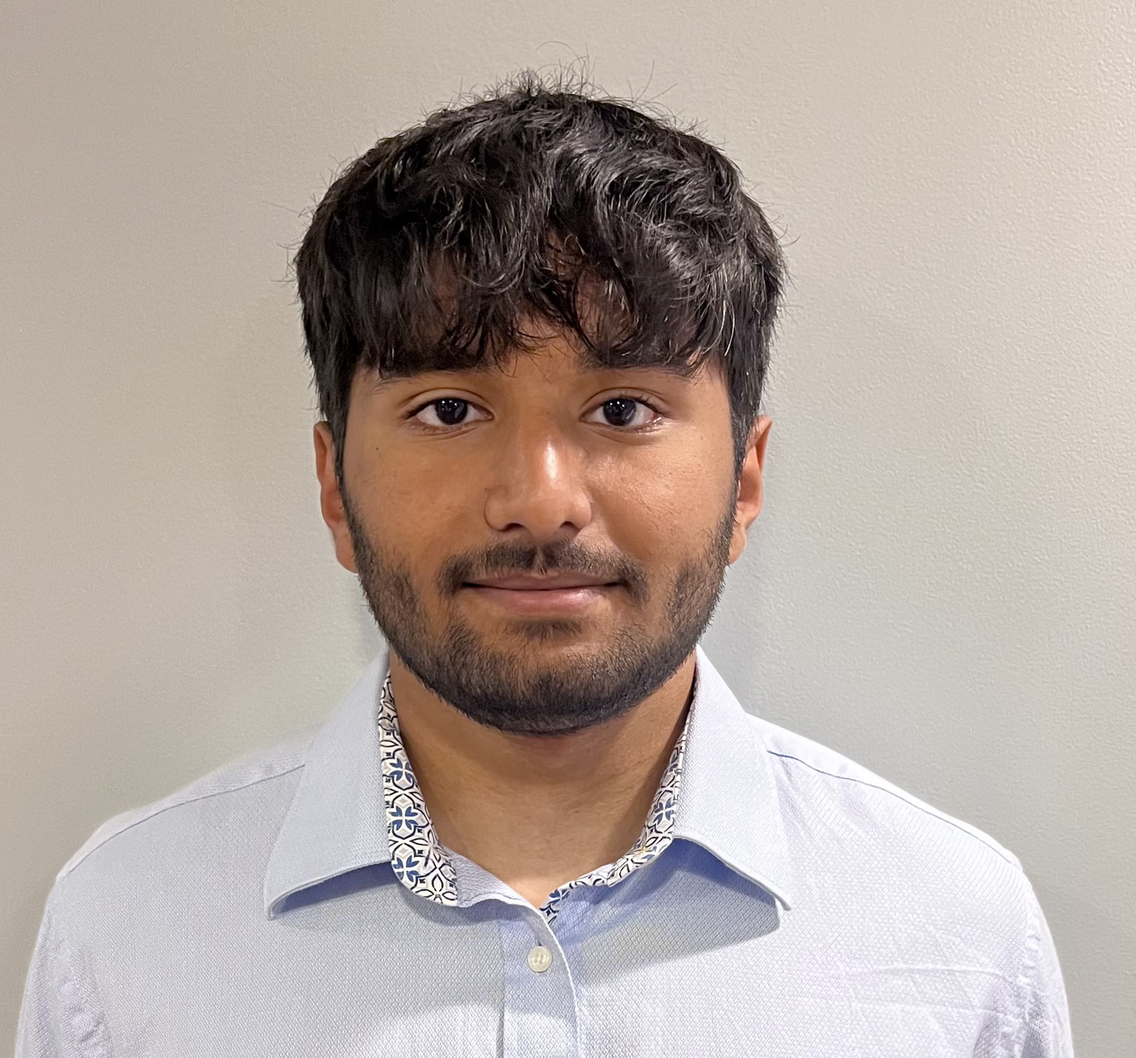
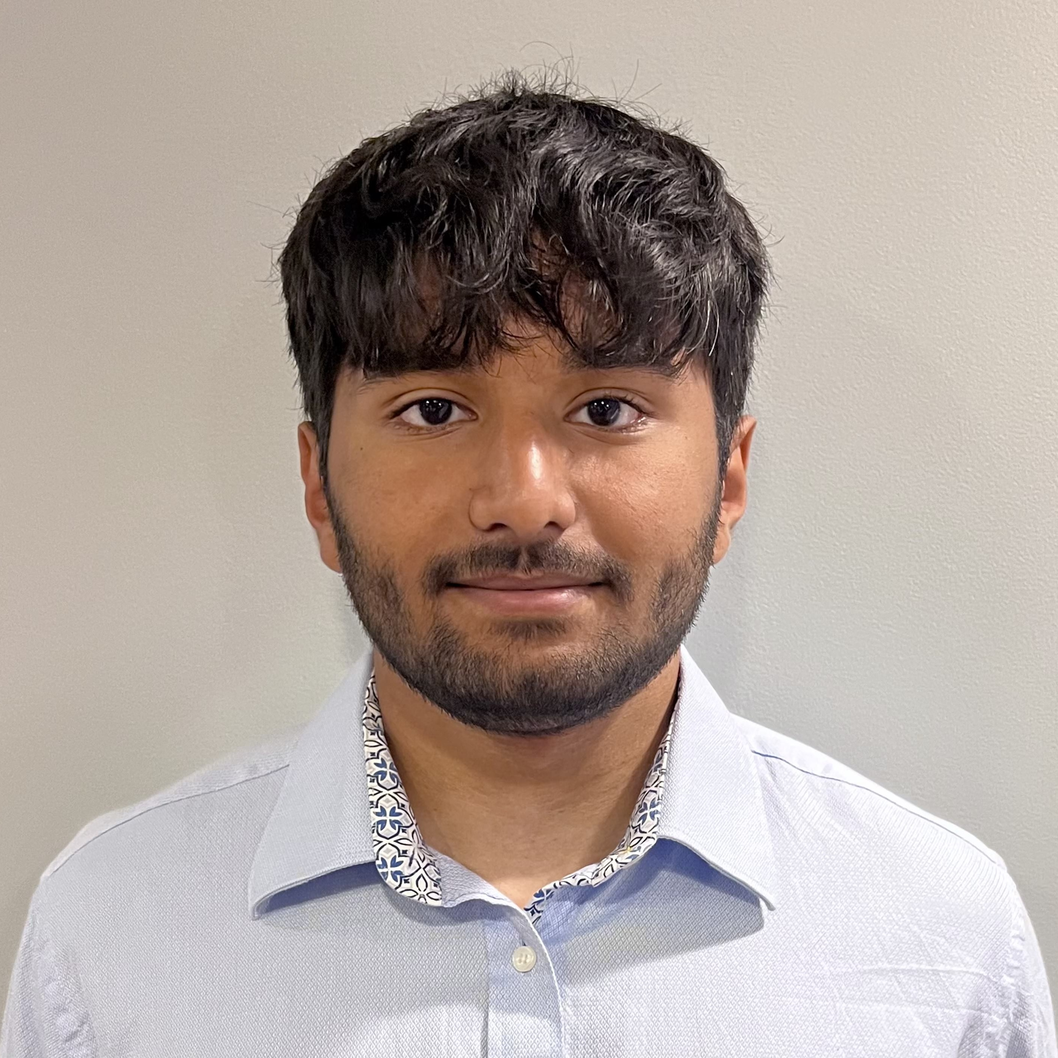
filling in panelist information and pictures

Changed region(s): [[0.0, 0.0619, 1.0, 1.0], [0.1237, 0.7423, 0.1546, 0.7732]]

diff --git a/events.html b/events.html
@@ -45,6 +45,14 @@
                     <a href="abouthackktp.html">HackKTP</a>
                 </div>
             </div> 
+            <div class="dropdown">
+              <button class="dropbtn">Events 
+                <i class="fa fa-caret-down"></i>
+                <div class="dropdown-content">
+                  <a href="events.html">KTPxPCT Panel</a>
+              </div>
+            </button>
+            </div>
             <a href="rush.html">Rush</a>
             <a href="members.html">Members</a>
             <a href="contactus.html">Contact</a>
@@ -61,14 +69,13 @@
 
     <div class="events_section">
         <h1><span style="color: #a3e4a3;">"</span> Events</h1>
-        <div class="events_catalog">
-          <a href="#KTPxPCTProfPanel"><h2>KTP x PCT Professional Panel</h2></a> <!--jump works!-->
-          <!--  <a href="#PastEvents"><h2>Past Events</h2></a> --> <!--This will be implemented once we have past events to flex-->
+        <!-- <div class="events_catalog">
+          <a href="#KTPxPCTProfPanel"><h2>KTP x PCT Professional Panel</h2></a>
         </div>
-        <img src="./images/Workshop 1.jpg" style="width: 80%; margin: 0 10%; border-radius: 10px;"> <!-- replace these with some image at the end that will be a visual page break -->
+        <img src="./images/Workshop 1.jpg" style="width: 80%; margin: 0 10%; border-radius: 10px;">  -->
         <div class="KTPxPCTProfPanel">
           <a id="KTPxPCTProfPanel">
-            <h2>KTP x PCT Professional Panel</h2>
+          <h2>KTP x PCT Professional Panel</h2>
           </a>
           <h3>Apr 14th, 2024, CCDS 5th Floor, 7-8PM</h3>
           <h4>Undergraduate Research and Industry Internships: A Presentation and Panel Discussion Featuring 3 Kappa Theta Pi and 3 Phi Chi Theta Members.</h4>
@@ -78,6 +85,7 @@
             Our panel of KTP and PCT members will provide valuable insights, addressing audience questions on effective application 
             strategies and successful participation in these invaluable experiences.
           </p>
+          <!-- <img src="./images/Workshop 1.jpg" style="width: 80%; margin: 0 10%; border-radius: 10px;"> -->
           <div class="KTPxPCTProfPanel_about">
             <div class="KTPxPCTProfPanel_about_ktp">
               <h4>About Kappa Theta Pi (KTP)</h4>
@@ -112,9 +120,9 @@
 
               <!--Victor Verma (KTP)-->
               <div class="KTPxPCTProfPanel_panelist_card_KTP">
-                <img src="./images/KTPxPCTPanelistHeadshots/VictorVerma.jpg"/>
+                <img src="./images/KTPxPCTPanelistHeadshots/victor.jpg"/>
                 <b><span style="color: whitesmoke; margin-left: 5%;">Victor Verma</span></b>
-                <p><b>Year: </b>Class of 2024</p>
+                <p><b>Year: </b>Class of 2025</p>
                 <p><b>Major and Minor: </b>Mathematics and Computer Science Major, Data Science Minor</p>
                 <p><b>Fraternity Role: </b>KTP Brother</p>
                 <p><b>Position: </b>Undergraduate Research Assistant, BU Questrom School of Business</p>
@@ -146,62 +154,57 @@
                 <img src="./compressed-imgs/Alpha Headshots/Rohan1-min.webp"/>
                 <b><span style="color: whitesmoke; margin-left: 5%;">Rohan Kumar</span></b>
                 <p><b>Year: </b>Class of 2025</p>
-                <p><b>Major and Concentration: </b>Computer Engineering, Technology Innovation</p>
+                <p><b>Major: </b>Computer Engineering, Technology Innovation</p>
                 <p><b>Fraternity Role: </b>KTP Brother</p>
-                <p><b>Position: </b>Undergraduate Research Assistant, BU College of Engineering</p>
-                <p><b>Description: </b>My coding roots trace back to around fifth grade when I started messing around with Scratch, 
-                  and I'm now proficient in many popular languages such as Java, C/C++ and Python. Since May 2023, I've researched memory hardware protocols with a 
-                  Boston University/Brown University team, where I found a special interest in operating systems and microcontrollers. 
-                  For the upcoming summer I'm interning with General Dynamics Mission Systems. 
-                  In my free time I enjoy playing video games, exploring outdoors, and cooking.
+                <p><b>Position: </b>Machine Learning Research Assistant, MIT Sloan and BU ECE PeacLab</p>
+                <p><b>Description: </b>At Sloan I work on optimization problems in healthcare, 
+                  and at PeacLab I work on creating ML-based cloud tools for cloud computing platforms.
                 </p>
               </div>
 
-              <!--Hailey Moon (PCT)--> <!-- Again just for reference-->
+              <!--Sharon Zou (PCT)--> <!-- Again just for reference-->
               <div class="KTPxPCTProfPanel_panelist_card_PCT">
-                <img src="./compressed-imgs/Alpha Headshots/Rohan1-min.webp"/>
-                <b><span style="color: #234c8a; margin-left: 5%;">Rohan Kumar</span></b>
-                <p><b>Year: </b>Class of 2025</p>
-                <p><b>Major and Concentration: </b>Computer Engineering, Technology Innovation</p>
-                <p><b>Fraternity Role: </b>KTP Brother</p>
-                <p><b>Position: </b>Undergraduate Research Assistant, BU College of Engineering</p>
-                <p><b>Description: </b>My coding roots trace back to around fifth grade when I started messing around with Scratch, 
-                  and I'm now proficient in many popular languages such as Java, C/C++ and Python. Since May 2023, I've researched memory hardware protocols with a 
-                  Boston University/Brown University team, where I found a special interest in operating systems and microcontrollers. 
-                  For the upcoming summer I'm interning with General Dynamics Mission Systems. 
-                  In my free time I enjoy playing video games, exploring outdoors, and cooking.
+                <img src="./images/KTPxPCTPanelistHeadshots/sharonzou.jpeg"/>
+                <b><span style="color: #234c8a; margin-left: 5%;">Sharon Zou</span></b>
+                <p><b>Year: </b>Class of 2024</p>
+                <p><b>Major: </b>Computer Science</p>
+                <p><b>Fraternity Role: </b>PCT Brother</p>
+                <p><b>Position: </b>Software Engineering Intern at Microsoft</p>
+                <p><b>Description: </b>
+                  I'm a two-time SWE intern at Microsoft. 
+                  I validated ML models on the Viva Glint Data Analytics & Insights Team during my first summer 
+                  and then implemented post-meeting highlight emails on the Viva Engage Teams Q&A Team the following summer.
                 </p>
               </div>
 
               <!--Elaine Leiyoung (PCT)--> <!-- Again just for reference-->
               <div class="KTPxPCTProfPanel_panelist_card_PCT">
-                <img src="./compressed-imgs/Alpha Headshots/Rohan1-min.webp"/>
-                <b><span style="color: #234c8a; margin-left: 5%;">Rohan Kumar</span></b>
-                <p><b>Year: </b>Class of 2025</p>
-                <p><b>Major and Concentration: </b>Computer Engineering, Technology Innovation</p>
-                <p><b>Fraternity Role: </b>KTP Brother</p>
-                <p><b>Position: </b>Undergraduate Research Assistant, BU College of Engineering</p>
-                <p><b>Description: </b>My coding roots trace back to around fifth grade when I started messing around with Scratch, 
-                  and I'm now proficient in many popular languages such as Java, C/C++ and Python. Since May 2023, I've researched memory hardware protocols with a 
-                  Boston University/Brown University team, where I found a special interest in operating systems and microcontrollers. 
-                  For the upcoming summer I'm interning with General Dynamics Mission Systems. 
-                  In my free time I enjoy playing video games, exploring outdoors, and cooking.
+                <img src="./images/KTPxPCTPanelistHeadshots/elaineleiyoung.jpeg"/>
+                <b><span style="color: #234c8a; margin-left: 5%;">Elaine Leiyoung</span></b>
+                <p><b>Year: </b>Class of 2024</p>
+                <p><b>Major and Minor: </b>Commputer Science Major, Economics Minor</p>
+                <p><b>Fraternity Role: </b>PCT VP Of Technology, VP Of External Development, VP Of Recruitment</p>
+                <p><b>Position: </b>Hybrid Cloud Data Engineer Intern at Nutanix, Incoming Engineering Summer Analyst at Goldman Sachs</p>
+                <p><b>Description: </b>
+                  Worked on an audit events portal for their hybrid cloud file system. 
+                  I worked on adding support for AWS s3 object stores within that portal.
+                  I'm planning on attending graduate school after this my Goldman Sachs internship.
                 </p>
               </div>
 
               <!--Jinyoung Bang (PCT)--> <!-- Again just for reference-->
               <div class="KTPxPCTProfPanel_panelist_card_PCT">
-                <img src="./compressed-imgs/Alpha Headshots/Wyatt1-min.webp"/>
-                <b><span style="color: #234c8a; margin-left: 5%;">Rohan Kumar</span></b>
-                <p><b>Year: </b>Class of 2025</p>
-                <p><b>Major and Concentration: </b>Computer Engineering, Technology Innovation</p>
-                <p><b>Fraternity Role: </b>KTP Brother</p>
-                <p><b>Position: </b>Undergraduate Research Assistant, BU College of Engineering</p>
-                <p><b>Description: </b>My coding roots trace back to around fifth grade when I started messing around with Scratch, 
-                  and I'm now proficient in many popular languages such as Java, C/C++ and Python. Since May 2023, I've researched memory hardware protocols with a 
-                  Boston University/Brown University team, where I found a special interest in operating systems and microcontrollers. 
-                  For the upcoming summer I'm interning with General Dynamics Mission Systems. 
-                  In my free time I enjoy playing video games, exploring outdoors, and cooking.
+                <img src="./images/KTPxPCTPanelistHeadshots/jinyoung.jpeg"/>
+                <b><span style="color: #234c8a; margin-left: 5%;">Jinyoung Bang</span></b>
+                <p><b>Year: </b>Class of 2024</p>
+                <p><b>Major: </b>Computer Science</p>
+                <p><b>Fraternity Role: </b>PCT Brother</p>
+                <p><b>Position: </b>Software Engineer at Amazon, Data Engineer at WEBTOON</p>
+                <p><b>Description: </b>
+                  I’ve interned at multiple companies, ranging from big companies to high-growth startups. 
+                  At Amazon, I implemented SW development and ML life cycles for Alexa Notes. 
+                  At WEBTOON, I developed a cold-storage backup platform from scratch and worked with production-level data ingestion, transformation, 
+                  and aggregation pipelines that handle KPIs and business metrics.
                 </p>
               </div>
 
